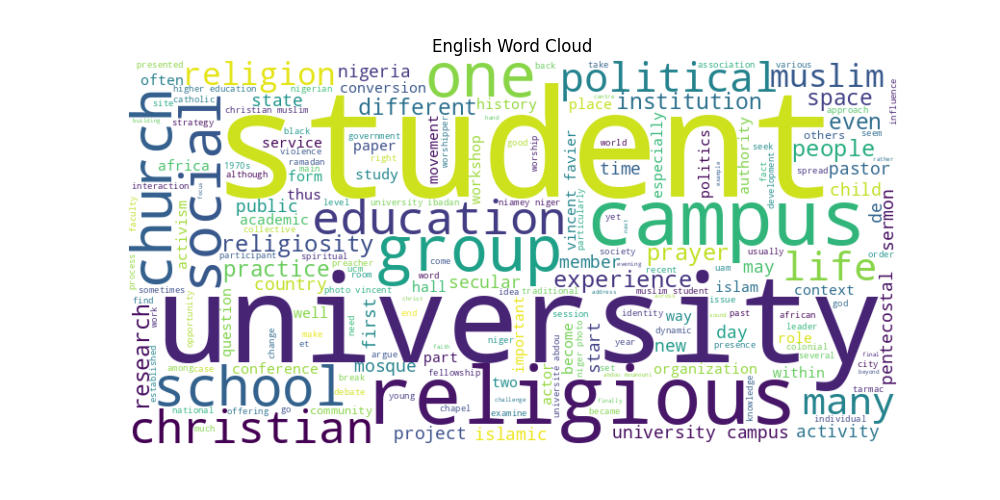
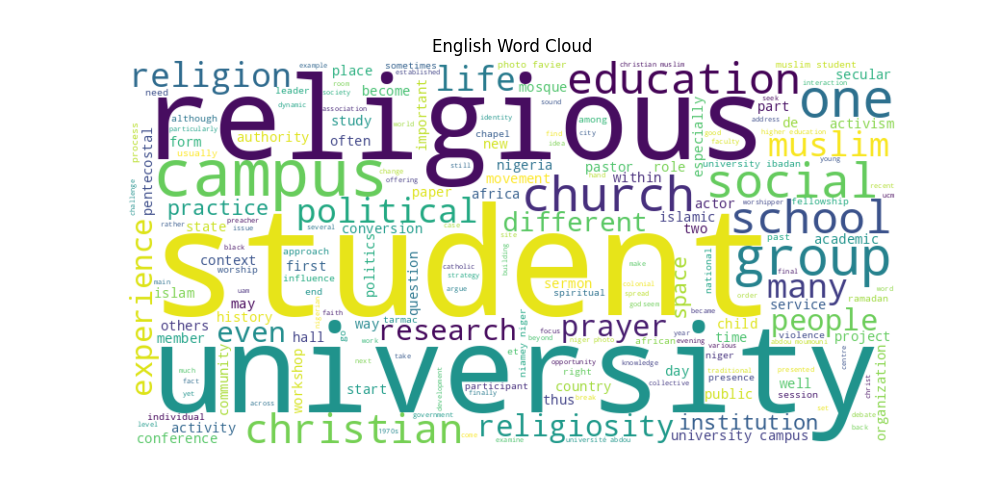
Add exception list

diff --git a/Final report/word_clouds.py b/Final report/word_clouds.py
@@ -43,6 +43,10 @@ except UnicodeDecodeError:
 # Initialize lemmatizer
 lemmatizer = WordNetLemmatizer()
 
+# Exception lists
+english_exceptions = {'vincent'}  # Add English exceptions here
+french_exceptions = {'vincent'}  # Add French exceptions here
+
 # Function to preprocess text
 def preprocess_text(text, language):
     if text is None:
@@ -50,12 +54,12 @@ def preprocess_text(text, language):
     # Tokenize the text
     tokens = word_tokenize(text.lower())
     
-    # Remove stop words and lemmatize
+    # Remove stop words, exceptions, and lemmatize
     if language == 'English':
-        stop_words = set(stopwords.words('english'))
+        stop_words = set(stopwords.words('english')).union(english_exceptions)
         processed_tokens = [lemmatizer.lemmatize(word) for word in tokens if word.isalnum() and word not in stop_words]
     elif language == 'French':
-        stop_words = set(stopwords.words('french'))
+        stop_words = set(stopwords.words('french')).union(french_exceptions)
         processed_tokens = [lemmatizer.lemmatize(word) for word in tokens if word.isalnum() and word not in stop_words]
     
     return ' '.join(processed_tokens)
